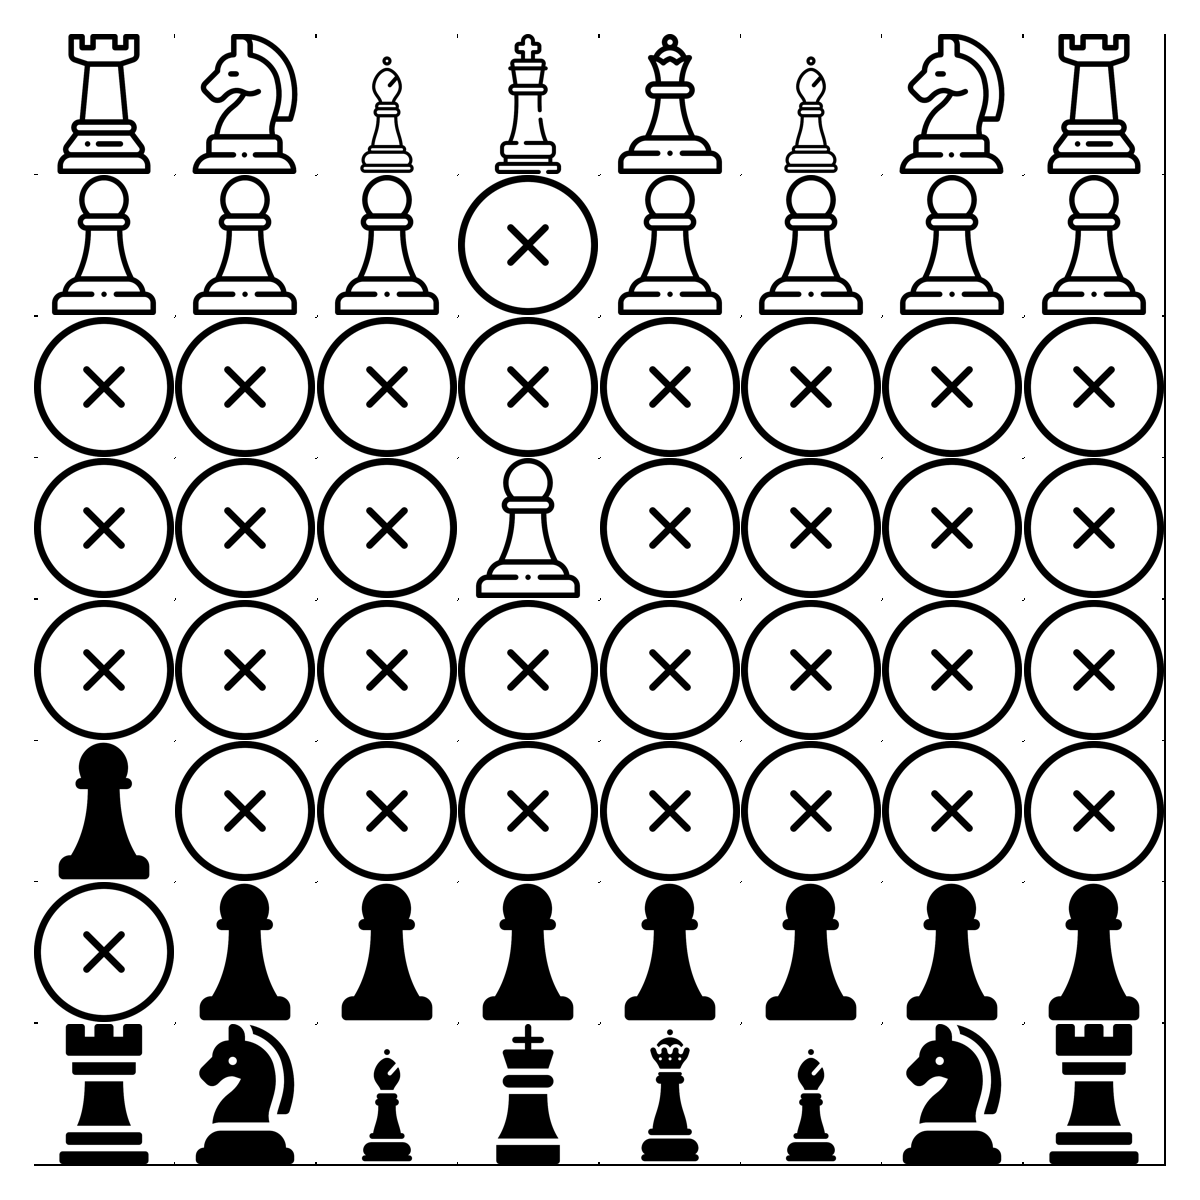
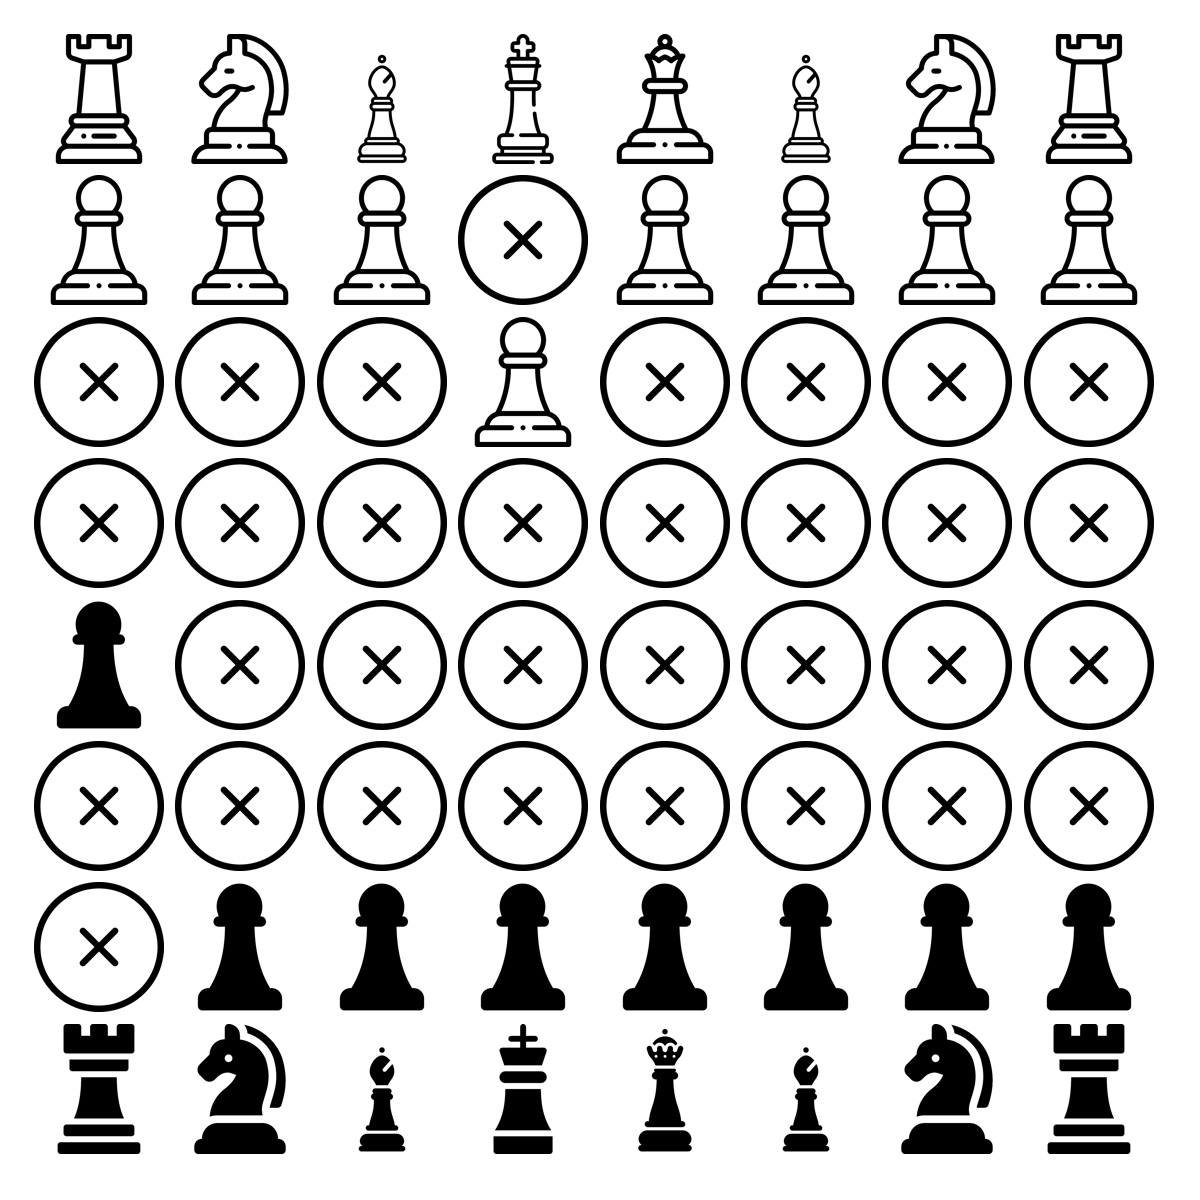
no more rect + padding

Changed region(s): [[0.0308, 0.0308, 0.9867, 0.9867], [0.8633, 0.8017, 0.9558, 0.9867], [0.8942, 0.7708, 0.925, 0.8017]]

diff --git a/chessvisualizer.py b/chessvisualizer.py
@@ -7,7 +7,7 @@ def visual(array):
     print(width, height)
 
     Size = 150
-    CSize = 140
+    CSize = 130
     SizeW = Size * width
     SizeH = Size * height
     canvas = Image.new("RGBA", (SizeW, SizeH), color="#ffffff")
@@ -24,21 +24,6 @@ def visual(array):
     whiterook = Image.open('./src/whiterook.png').resize((CSize, CSize))
     whitepawn = Image.open('./src/whitepawn.png').resize((CSize, CSize))
     x = Image.open('./src/x.png').resize((CSize, CSize))
-
-    rect = ImageDraw.Draw(canvas)
-    rect.rectangle(((SizeW * 1 / 35, SizeH * 1 / 35), (SizeW * 34 / 35, SizeH * 34 / 35)), outline=(0, 0, 0), width=4)
-
-    for i in range(0, width):
-        drawx = (SizeW * 33 / 35) / width
-        linex = ImageDraw.Draw(canvas)
-        line = ((SizeW * 1 / 35 + drawx * i, SizeH * 1 / 35), (SizeW * 1 / 35 + drawx * i, SizeH * 34 / 35))
-        linex.line(line, fill="black")
-
-    for i in range(0, height):
-        drawy = (SizeH * 33 / 35) / height
-        liney = ImageDraw.Draw(canvas)
-        line = ((SizeW * 1 / 35, SizeH * 1 / 35 + drawy * i), (SizeW * 34 / 35, SizeH * 1 / 35 + drawy * i))
-        liney.line(line, fill="black")
 
     for i in range(0, width):
         for j in range(0, height):
